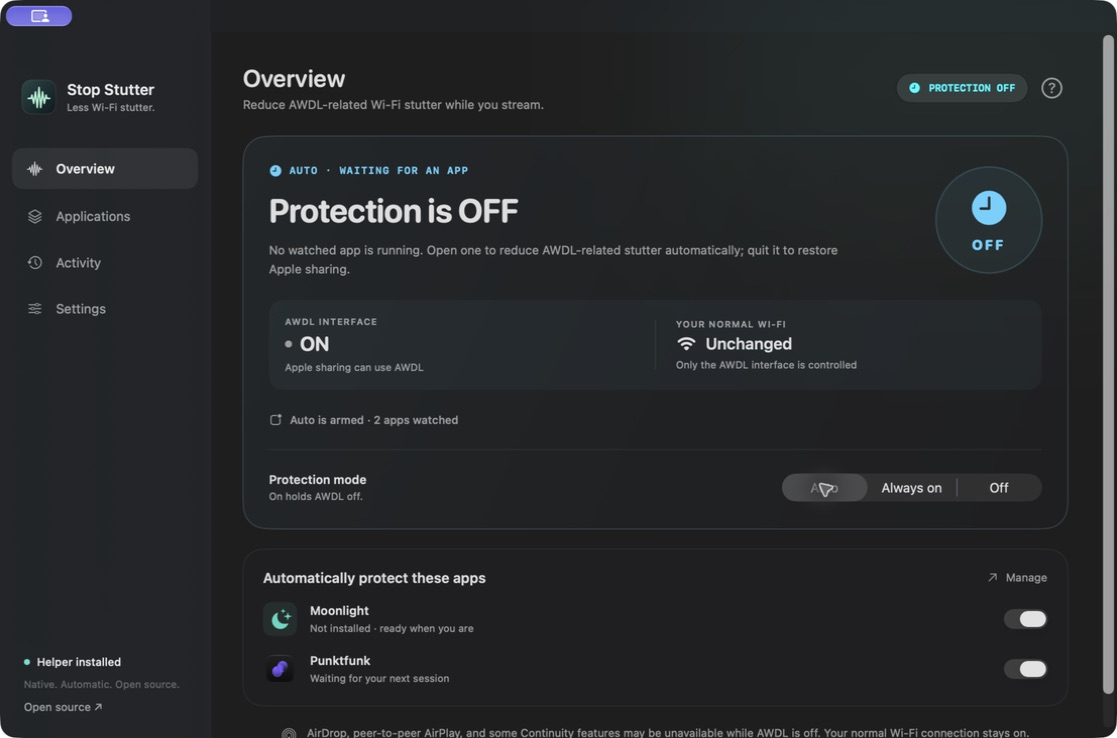
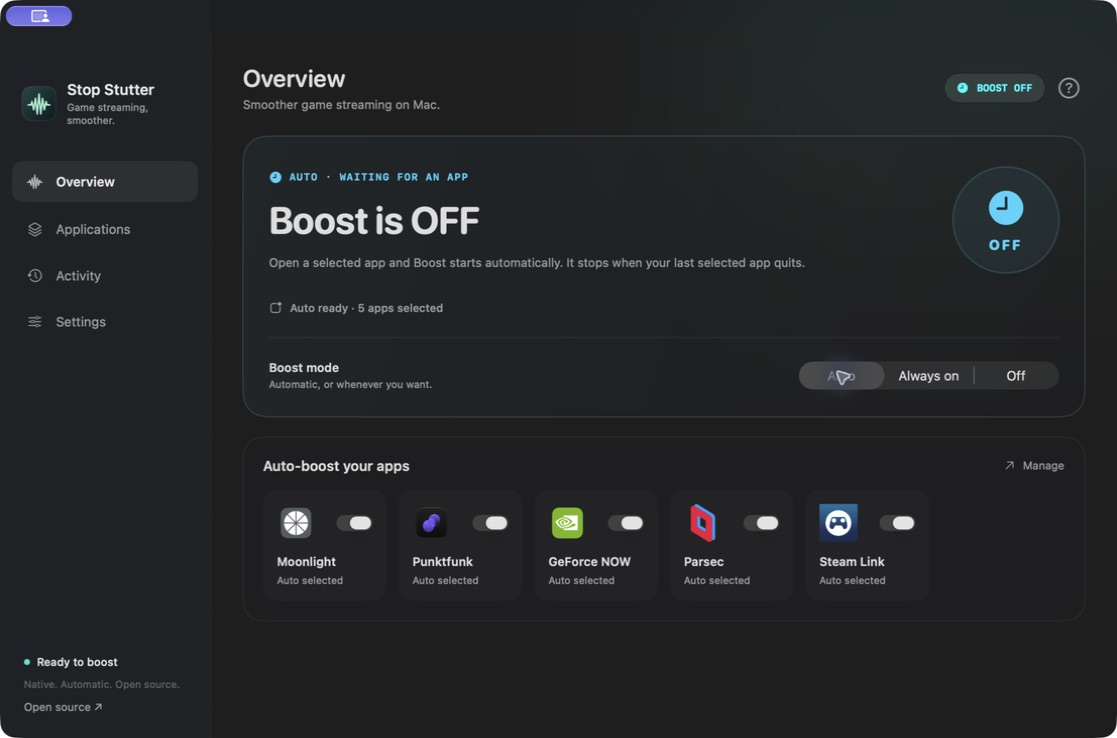
Explain the streaming boost and refresh release screenshots

diff --git a/README.md b/README.md
@@ -2,11 +2,11 @@
 
 # Stop Stutter
 
-### Less Moonlight stutter. Without babysitting your Mac.
+### Smoother game streaming on Mac.
 
-**Reduce AWDL-related Wi-Fi lag in Moonlight, Punktfunk, and other streaming apps.**
+**A native, automatic streaming boost for Moonlight, GeForce NOW, Punktfunk, Parsec, and Steam Link.**
 
-Automatically turn AWDL off while you play—and back on when you quit.
+Open your game. Boost kicks in. Quit when you’re done.
 
 [![macOS 14+](https://img.shields.io/badge/macOS-14%2B-24292e?logo=apple)](https://github.com/burakgon/stop-stutter/releases)
 [![SwiftUI](https://img.shields.io/badge/SwiftUI-native-F05138?logo=swift&logoColor=white)](https://developer.apple.com/xcode/swiftui/)
@@ -21,16 +21,28 @@ Automatically turn AWDL off while you play—and back on when you quit.
 
 **Good signal. Plenty of bandwidth. Video still hitching every few seconds?** Your Mac’s peer-to-peer Wi-Fi may be getting in the way of your stream. When AWDL is the cause, turning it off can reduce latency spikes, uneven frame delivery, and audio interruptions. The issue has been [reported by Moonlight users for years](https://github.com/moonlight-stream/moonlight-qt/issues/753).
 
-Stop Stutter makes that workaround automatic. **Open your streaming app → AWDL is held off. Quit the last watched app → AWDL comes back.** You choose the apps. Your normal Wi-Fi stays on.
+Stop Stutter makes that workaround effortless. **Open a selected app → Boost starts. Quit the last selected app → Boost ends.** No Terminal commands to repeat. No setting to remember after every game.
 
-| What you want | What Stop Stutter does |
+| Built for your session | What you get |
 | --- | --- |
-| Fewer AWDL-related hitches and audio interruptions | Holds the AWDL interface off during your session |
-| No more repeated Terminal commands | Reapplies the setting every second, even if macOS revives AWDL |
-| AirDrop back after playing | Restores AWDL when the last watched app quits |
-| Know what is happening | Shows **Protection ON / OFF** and the separate **AWDL OFF / ON** state |
+| **Launch and play** | Automatic Boost for the apps you choose |
+| **See it at a glance** | Clear **Boost ON / OFF**, with distinct Auto waiting and paused states |
+| **Make it yours** | Five ready-made app presets, official client icons, and a native picker for any other client |
+| **Understand the details** | A **?** button explains the mechanism, limits, and Apple sharing trade-off |
 
-> This targets **AWDL-related Wi-Fi stutter**, not every source of latency. Decoder, encoder, network congestion, Bluetooth, and other issues can still affect a stream. We do not claim a measured FPS or latency improvement.
+## Pick your streaming apps
+
+| App | Use case |
+| --- | --- |
+| **Moonlight** | Stream games from your own PC |
+| **GeForce NOW** | Cloud gaming on your Mac |
+| **Punktfunk** | Game streaming from your PC |
+| **Parsec** | Low-latency remote desktop and game streaming |
+| **Steam Link** | Stream your Steam games to your Mac |
+
+These presets identify the native clients automatically. Add other `.app` bundles from **Applications → Add App**. Existing selections stay yours; missing presets are available under **More apps to boost**.
+
+The benefit depends on whether AWDL causes your stutter. Preset support means automatic app detection, not a measured performance gain for each client. See the [validation record](docs/VALIDATION.md) for what has actually been tested.
 
 ## Why can AWDL cause lag?
 
@@ -38,10 +50,10 @@ Stop Stutter makes that workaround automatic. **Open your streaming app → AWDL
 
 **A live stream notices short delays.** Downloads can buffer and catch up. A game stream needs frames, audio, and inputs delivered consistently. Those brief interruptions can feel like stutter even when a speed test reports excellent bandwidth.
 
-**Stop Stutter removes this source of interference.** While protection is on, its helper disables `awdl0` every second. Your normal Wi-Fi remains on. In Auto mode it brings AWDL back after the final watched app quits, so Apple sharing can resume.
+**Stop Stutter removes this source of interference.** While boost is on, its helper disables `awdl0` every second. Your normal Wi-Fi remains on. In Auto mode it brings AWDL back after the final watched app quits, so Apple sharing can resume.
 
 ```text
-PROTECTION OFF                     PROTECTION ON
+BOOST OFF                          BOOST ON
 AWDL can share the Wi-Fi radio      AWDL is held off every second
          ↓                                  ↓
 AWDL-related delays can occur       This source of interference is reduced
@@ -51,7 +63,7 @@ AWDL-related delays can occur       This source of interference is reduced
                  AWDL comes back on
 ```
 
-**The trade-off:** AirDrop, peer-to-peer AirPlay, and some Continuity features may be unavailable while AWDL is off. Turn protection off whenever you need them. The **?** button in the app explains this with an illustrated walkthrough.
+**The trade-off:** AirDrop, peer-to-peer AirPlay, and some Continuity features may be unavailable while AWDL is off. Turn boost off whenever you need them. The **?** button in the app explains this with an illustrated walkthrough.
 
 <details>
 <summary>See the in-app explanation</summary>
@@ -62,14 +74,14 @@ AWDL-related delays can occur       This source of interference is reduced
 
 ## What you get
 
-- **Automatic protection.** Moonlight and Punktfunk are suggested out of the box. Add any `.app` with the native application picker.
-- **One-second enforcement.** The helper repeats `/sbin/ifconfig awdl0 down` every second while protection is active, because macOS can bring the interface back up.
-- **Manual control.** Choose **Always on** to hold AWDL off, **Off** to stop protection, or **Auto** to follow your selected apps.
-- **States you can read at a glance.** A green **Protection is ON** means AWDL is held off. Blue **OFF / Auto waiting** means the app is armed for the next session. Gray **OFF / Paused** means automation is disabled. Setup, transitions, and errors have their own labels.
-- **An explanation built in.** The **?** panel shows why AWDL can cause lag, how protection helps, and what happens to Apple sharing.
+- **Automatic Boost.** Moonlight, GeForce NOW, Punktfunk, Parsec, and Steam Link are included. Add any `.app` with the native application picker.
+- **One-second enforcement.** The helper repeats `/sbin/ifconfig awdl0 down` every second while boost is active, because macOS can bring the interface back up.
+- **Manual control.** Choose **Always on** to hold AWDL off, **Off** to stop boost, or **Auto** to follow your selected apps.
+- **States you can read at a glance.** Green **Boost is ON** means a verified active session. Blue **OFF / Auto waiting** is ready for your next app launch. Gray **OFF / Paused** means automation is disabled. Setup, transitions, and errors have their own labels.
+- **An explanation built in.** The **?** panel shows why AWDL can cause lag, how boost helps, and what happens to Apple sharing.
 - **Native Liquid Glass.** SwiftUI, real macOS 26+ glass controls, and native materials on macOS 14–15. Supports the system appearance and accessibility settings.
-- **A quiet menu bar companion.** Close the main window and protection keeps working. Optional launch at login.
-- **Clear notifications.** Quiet banners when protection starts, AWDL is restored, or an AWDL command fails. No notification sounds over your stream.
+- **A quiet menu bar companion.** Close the main window and boost keeps working. Optional launch at login.
+- **Clear notifications.** Quiet banners when Boost starts, ends, or needs attention. No notification sounds over your stream.
 - **Recovery built in.** Disconnect recovery, six-second leases, and a durable recovery marker help prevent AWDL from being left off after a crash.
 - **No accounts, analytics, ads, or dependencies.** App choices stay in local preferences. Activity history exists only in memory.
 
@@ -79,40 +91,42 @@ AWDL-related delays can occur       This source of interference is reduced
 2. Move **Stop Stutter.app** to **Applications**, then open it.
 3. Click **Enable Helper**. Approve Stop Stutter under **System Settings → General → Login Items & Extensions** when macOS asks. Administrator approval is required for the helper.
 4. Allow notifications if you want session updates.
-5. Choose **Auto**, then open Moonlight, Punktfunk, or another selected app.
+5. Choose **Auto**, then open Moonlight, GeForce NOW, or another selected app.
 
 Release builds are signed with Developer ID and notarized by Apple. The universal binary supports Apple Silicon and Intel. **macOS 14 Sonoma or later** is required; Liquid Glass requires **macOS 26 Tahoe or later**.
 
-### Choose when protection runs
+### Choose when boost runs
 
 | Mode | Behavior |
 | --- | --- |
 | **Auto** | Holds AWDL off while at least one enabled app is running. Restores it when the last one quits. |
 | **Always on** | Holds AWDL off until you change the mode or quit Stop Stutter. |
-| **Off** | Releases Stop Stutter’s control and pauses automatic protection. |
+| **Off** | Releases Stop Stutter’s control and pauses automatic boost. |
 
-Use **Applications → Add App** to select a client. Apps are matched by bundle identifier, so moving or renaming an app does not break its rule. Toggle a rule off to keep it in the list without triggering protection. Multiple selected clients can run at the same time.
+Use **Applications → Add App** to select a client. Apps are matched by bundle identifier, so moving or renaming an app does not break its rule. Toggle a rule off to keep it in the list without triggering boost. Multiple selected clients can run at the same time.
 
-**App lifetime, not stream detection:** protection starts when the client launches, including its menus, and stays on while it runs in the background. Closing its last window may not quit the client. Use **Quit** in that client to end its session.
+**App lifetime, not stream detection:** boost starts when the client launches, including its menus, and stays on while it runs in the background. Closing its last window may not quit the client. Use **Quit** in that client to end its session.
 
-**Auto is selected, but protection says OFF?** That is expected when none of your watched apps is running. Auto is a rule; the large status shows whether protection is actually active right now. A selected mode alone is never treated as proof that AWDL was disabled.
+Whole browsers and the Steam launcher are not presets: they often stay open outside a streaming session. For browser-based cloud gaming, use **Always on** during play or add your browser as a custom rule if you prefer that behavior.
+
+**Auto is selected, but boost says OFF?** That is expected when none of your watched apps is running. Auto is a rule; the large status shows whether boost is actually active right now. A selected mode alone is never treated as proof that AWDL was disabled.
 
 <details>
-<summary>Compare Auto waiting and paused protection</summary>
+<summary>Compare Auto waiting and paused boost</summary>
 
-**Auto waiting:** protection is off now, but a watched app will start it.
+**Auto waiting:** boost is off now, but a watched app will start it.
 
 ![Auto mode waiting for a watched app](docs/auto-waiting.jpg)
 
-**Paused:** protection is off, and app launches will not start it.
+**Paused:** boost is off, and app launches will not start it.
 
-![Protection paused with AWDL on](docs/protection-off.jpg)
+![Boost paused](docs/boost-off.jpg)
 
 </details>
 
 ### What happens to AirDrop?
 
-AirDrop, peer-to-peer AirPlay, and some Continuity features may be unavailable while AWDL is held off. Your regular Wi-Fi interface is not disabled. Stop Stutter restores AWDL when its protection ends; it does not change Bluetooth, Location Services, your router, or SIP.
+AirDrop, peer-to-peer AirPlay, and some Continuity features may be unavailable while AWDL is held off. Your regular Wi-Fi interface is not disabled. Stop Stutter restores AWDL when its boost ends; it does not change Bluetooth, Location Services, your router, or SIP.
 
 ## How it works
 
@@ -133,14 +147,14 @@ Selected apps launch / quit
 
 The helper uses Apple’s [`SMAppService`](https://developer.apple.com/documentation/servicemanagement/smappservice) rather than a passwordless sudo rule. The app runs as your normal user; the small helper runs with permission to change AWDL. Both ends validate the peer’s Apple code signature, exact identifier, and signing team using the [public XPC code-signing APIs](https://developer.apple.com/documentation/foundation/nsxpcconnection/setcodesigningrequirement(_:)).
 
-Only a boolean protection request crosses XPC. The helper accepts no command strings, custom interfaces, executable paths, or shell arguments. Read [the architecture and security notes](docs/ARCHITECTURE.md) for failure handling and limitations.
+Only a boolean boost request crosses XPC. The helper accepts no command strings, custom interfaces, executable paths, or shell arguments. Read [the architecture and security notes](docs/ARCHITECTURE.md) for failure handling and limitations.
 
 ### If something interrupts your session
 
 - **Normal quit or XPC disconnect:** the helper releases the app’s lease and restores AWDL when no other lease remains.
 - **Frozen app:** a lease expires six seconds after the last heartbeat. The next one-second tick attempts recovery.
 - **Helper crash:** launchd restarts the helper. A root-owned recovery marker tells it to restore AWDL before taking new work.
-- **Sleep or user switching:** the app releases protection. Continuous monotonic lease time also expires across sleep; active rules are evaluated again on wake.
+- **Sleep or user switching:** the app releases boost. Continuous monotonic lease time also expires across sleep; active rules are evaluated again on wake.
 - **Restore failure:** the marker stays in place, the helper retries, and the app shows the error. It does not report success from an exit code alone.
 
 The helper changes nothing while idle unless it owns a pending recovery. After taking control it restores AWDL to **up**, even if another tool had previously brought it down. Avoid running competing AWDL controllers. A missing interface, an OS failure, or removal of the helper/app before recovery completes can prevent automatic restoration; [manual recovery](#manual-recovery) is always available.
@@ -171,7 +185,7 @@ Set `UNIVERSAL=1` to build for both architectures. The build uses macOS APIs int
 ## Remove
 
 1. Open **Settings** in Stop Stutter and disable **Launch at login**, if enabled.
-2. Click **Remove Helper**. The app first releases its lease and verifies that recovery has finished. Removal is blocked if another signed app session still owns protection.
+2. Click **Remove Helper**. The app first releases its lease and verifies that recovery has finished. Removal is blocked if another signed app session still owns boost.
 3. Quit Stop Stutter and move it to the Trash.
 
 Do this before deleting the app bundle: the helper lives inside it. The app does not install sudoers rules or separate scripts. An empty, root-owned recovery directory can remain at `/private/var/db/io.github.burakgon.StopStutter`; it has no running component.
@@ -184,16 +198,16 @@ Quit Stop Stutter, then run:
 sudo /sbin/ifconfig awdl0 up
 ```
 
-Verify the `UP` flag with `/sbin/ifconfig awdl0`. If another app is still requesting protection, release that session first or it will turn AWDL off again.
+Verify the `UP` flag with `/sbin/ifconfig awdl0`. If another app is still requesting boost, release that session first or it will turn AWDL off again.
 
 ## Contributing
 
 Bug reports with macOS version, Mac model, client name, and clear reproduction steps are especially useful. Please distinguish observed AWDL behavior from measured streaming improvements. See [CONTRIBUTING.md](CONTRIBUTING.md) and [the manual test checklist](docs/TESTING.md).
 
-If this helps your stream, a star helps other Mac users find it. Share your results in an issue—especially if you can compare the same session with protection on and off.
+If this helps your stream, a star helps other Mac users find it. Share your results in an issue—especially if you can compare the same session with boost on and off.
 
 ## Credits & license
 
-Inspired by the Mac streaming community’s investigations, including the [Moonlight issue](https://github.com/moonlight-stream/moonlight-qt/issues/753) and [AWDL troubleshooting notes](https://gist.github.com/kouwei32/c101be682fc2e433e153ea131798caec). Stop Stutter is an independent project, not affiliated with Apple, Moonlight, or Punktfunk.
+Inspired by the Mac streaming community’s investigations, including the [Moonlight issue](https://github.com/moonlight-stream/moonlight-qt/issues/753) and [AWDL troubleshooting notes](https://gist.github.com/kouwei32/c101be682fc2e433e153ea131798caec). Stop Stutter is an independent project, not affiliated with Apple or any of the supported streaming services. Product names and client icons belong to their respective owners. See [client icon sources and notices](Resources/ClientIcons/NOTICE.md).
 
 [MIT](LICENSE) © 2026 Ali Burak Goncu.

diff --git a/docs/TESTING.md b/docs/TESTING.md
@@ -4,7 +4,7 @@
 
 `swift test` uses an in-memory interface driver and recovery journal. It never changes networking, invokes sudo, or registers a daemon.
 
-The suite covers repeated down commands, OS reactivation, multiple independent leases, immediate disconnect recovery, heartbeat renewal, expiry, sleep-length monotonic jumps, helper restart recovery, shutdown, missing interfaces, silent write failure, failed journal writes, failed restoration, failed marker cleanup, mode precedence, watched-app matching, removal/disable behavior, and persistence round trips.
+The suite covers repeated down commands, OS reactivation, multiple independent leases, immediate disconnect recovery, heartbeat renewal, expiry, sleep-length monotonic jumps, helper restart recovery, shutdown, missing interfaces, silent write failure, failed journal writes, failed restoration, failed marker cleanup, mode precedence, watched-app matching, removal/disable behavior, preset matching, preservation of existing app choices, and persistence round trips.
 
 ## Manual release checklist
 
@@ -15,20 +15,20 @@ Perform network-control tests on a Mac where temporarily disabling AWDL will not
 - [ ] Install a notarized app in Applications; enable its helper and approve it in System Settings.
 - [ ] Verify no repeated password prompts, missing helper errors, or signature failures.
 - [ ] Select Always on; confirm `IFF_UP` disappears from `/sbin/ifconfig awdl0`.
-- [ ] Verify active / Auto waiting / paused have distinct text, icons, and color; changing the mode alone must not claim successful protection.
+- [ ] Verify active / Auto waiting / paused have distinct text, icons, and color; changing the mode alone must not claim successful boost.
 - [ ] Open the ? explanation panel, inspect packet timing illustration, scroll to the trade-off and source links, and dismiss using Escape/Return.
 - [ ] Observe the one-second loop over several ticks; optionally bring AWDL up and confirm it is disabled again.
 - [ ] Select Off; verify `IFF_UP` returns and a restore event/banner appears.
 - [ ] Choose Auto; launch a selected client and verify AWDL goes down.
-- [ ] Keep two selected clients running; quit one and confirm protection remains. Quit the other and confirm restoration.
+- [ ] Keep two selected clients running; quit one and confirm boost remains. Quit the other and confirm restoration.
 - [ ] Add a custom app through the native picker; disable/remove its rule while it runs and verify reconciliation.
-- [ ] Leave a client window closed but its process running; verify protection correctly remains active.
-- [ ] Quit Stop Stutter during protection; verify AWDL returns.
+- [ ] Leave a client window closed but its process running; verify boost correctly remains active.
+- [ ] Quit Stop Stutter during boost; verify AWDL returns.
 - [ ] Force quit Stop Stutter; verify disconnect/expiry recovery. Restart it and confirm rules resume.
-- [ ] Freeze the app during protection; verify lease expiry and recovery. Resume and confirm control resumes.
-- [ ] Kill the helper during protection on a test system; verify restart and recovery marker handling.
+- [ ] Freeze the app during boost; verify lease expiry and recovery. Resume and confirm control resumes.
+- [ ] Kill the helper during boost on a test system; verify restart and recovery marker handling.
 - [ ] Test sleep/wake, switching users, notification denial, and helper permission revocation.
 - [ ] Remove the helper in Settings; verify launchd registration is removed and AWDL is up.
 - [ ] Check the ZIP on a second Mac. Test Intel and macOS 14/15 separately from Apple Silicon and 26+.
 
-Record what actually ran in the release notes. Do not infer a streaming improvement from network-interface state alone; compare the same stream with protection off/on to measure that.
+Record what actually ran in the release notes. Do not infer a streaming improvement from network-interface state alone; compare the same stream with boost off/on to measure that.

diff --git a/docs/VALIDATION.md b/docs/VALIDATION.md
@@ -1,17 +1,21 @@
 # 0.1.0 validation record
 
-Development host: Apple Silicon Mac, macOS 27.0 developer beta, Xcode 27.0. Deployment target: macOS 14.0. Built and inspected both arm64 and x86_64 slices. The linked SDK version is explicitly stamped by the build script to enable the system's modern Liquid Glass behavior.
+Development host: Apple Silicon Mac, macOS 27.0 developer beta, Xcode 27.0. Deployment target: macOS 14.0. Built and inspected both arm64 and x86_64 slices. With Xcode 27, the linked SDK version is explicitly stamped by the build script to enable the system's modern Liquid Glass behavior.
+
+GitHub Actions also passed all 28 tests and the universal build on macOS 26 with Xcode 26.5. Both slices report a macOS 14.0 minimum and the correct 26.5 linked SDK.
 
 ## Checks completed
 
-- 26 automated tests for control policy, lease ownership, error recovery, persistence, and truthful UI state classification.
+- 28 automated tests for control policy, lease ownership, error recovery, persistence, and truthful UI state classification.
+- Streaming presets: verified Parsec’s identifier from its official macOS package, Steam Link’s from Apple’s app metadata, and GeForce NOW’s from its official macOS disk image. Matching and preservation of disabled/custom rules have automated coverage.
+- Added GeForce NOW, Parsec, and Steam Link through the native suggested-app controls; all five selected rules and their official icons are visible together on the overview. The latest icon bundle passed signing, notarization, and CI again.
 - Native application picker: selected TextEdit, verified its persisted rule, then removed the temporary rule.
 - Native AWDL explanation sheet: opened from the ? button, inspected both ends of its scrollable content, verified source links are present, and dismissed with Escape.
-- Revised UI states: observed and captured active green Protection ON / AWDL OFF, blue Auto waiting / Protection OFF, and neutral paused Protection OFF / AWDL ON against the live helper.
+- Revised UI states: observed and captured active green Boost ON, blue Auto waiting / Boost OFF, and neutral paused Boost OFF against the live helper.
 - Approved SMAppService helper installed and running under launchd.
-- Actual interface checks using `/sbin/ifconfig awdl0`: the `UP` flag disappears during protection and returns after release.
-- Manual protection through the UI: on and off matched the real interface state.
-- Punktfunk launch triggered automatic protection; quitting it restored AWDL.
+- Actual interface checks using `/sbin/ifconfig awdl0`: the `UP` flag disappears during boost and returns after release.
+- Manual boost through the UI: on and off matched the real interface state.
+- Punktfunk launch triggered automatic boost; quitting it restored AWDL.
 - A signed integration probe verified two independent leases, keeping AWDL down when only one ends, restoration when the last ends, immediate disconnect recovery, and recovery after a heartbeat stops.
 - A probe with the same bundle identifier but only an ad-hoc signature was rejected by the helper.
 - In-app helper removal completed; launchd no longer listed the service and AWDL remained up.

diff --git a/docs/ARCHITECTURE.md b/docs/ARCHITECTURE.md
@@ -22,9 +22,9 @@ Before the first down command, the helper creates and syncs a marker in a root-o
 
 The marker means “this helper owes an AWDL up.” Recovery clears it only after `ifconfig up` succeeds and `IFF_UP` is verified. Recovery failures retain ownership and retry. A helper restart sees the marker and attempts restoration before handling new connections. A SIGTERM handler attempts restoration on orderly service removal; launchd restarts nonzero exits. A forced kill is recovered by the next launch, subject to normal OS scheduling and service approval.
 
-The app renews its connection's six-second lease every two seconds. The helper's timer expires leases using continuous monotonic time, which advances over sleep and ignores wall-clock changes. Only the last lease ending triggers restoration. Control returns to AWDL up after protection, regardless of its state before protection. With no lease or recovery marker, the daemon never changes the interface.
+The app renews its connection's six-second lease every two seconds. The helper's timer expires leases using continuous monotonic time, which advances over sleep and ignores wall-clock changes. Only the last lease ending triggers restoration. Control returns to AWDL up after Boost, regardless of its state before Boost. With no lease or recovery marker, the daemon never changes the interface.
 
-The UI treats a session as protected only after a successful response that says the helper owns control, a lease exists, the interface is down, and no error is present. RPC timeout/error paths do not claim protection. RPC completion is guarded against duplicate replies and timeouts. A heartbeat failure lets the lease expire; the client retries on its next poll.
+The UI treats a Boost as active only after a successful response that says the helper owns control, a lease exists, the interface is down, and no error is present. RPC timeout/error paths do not claim active Boost. RPC completion is guarded against duplicate replies and timeouts. A heartbeat failure lets the lease expire; the client retries on its next poll.
 
 ## Limits
 

diff --git a/CHANGELOG.md b/CHANGELOG.md
@@ -5,8 +5,10 @@
 First public preview.
 
 - Native SwiftUI app with Liquid Glass controls on macOS 26+ and a menu bar companion.
-- Automatic AWDL suppression for user-selected apps, including Moonlight and Punktfunk suggestions.
-- Manual Auto / Always on / Off protection modes, explicit protection and AWDL status, and distinct active, waiting, paused, setup, transition, and error states.
+- Automatic AWDL suppression for user-selected apps, with presets for Moonlight, GeForce NOW, Punktfunk, Parsec, and Steam Link.
+- Auto / Always on / Off Boost modes, a benefit-led main screen, and distinct active, waiting, paused, setup, transition, and error states.
+- All selected apps appear on the overview, with official client icons and individual Auto toggles.
+- Optional suggested apps preserve existing user choices.
 - Illustrated in-app explanation of AWDL-related latency, one-second enforcement, and the Apple sharing trade-off.
 - Privileged helper with one-second enforcement, authenticated XPC, expiring leases, and durable recovery.
 - Quiet notifications, a session activity feed, optional launch at login, and in-app helper removal.

diff --git a/docs/RELEASING.md b/docs/RELEASING.md
@@ -19,6 +19,6 @@ Do not publish an unnotarized helper build as a supported end-user download. Ad-
 
 ## Updating an installed helper
 
-For the initial release, updates are manual. In the installed version, turn protection off, remove the helper in Settings, and quit before replacing the app. Open the new version and enable its helper again. This follows Apple's requirement to re-register after the daemon executable or plist changes. Do not replace a live bundle during enforcement.
+For the initial release, updates are manual. In the installed version, turn boost off, remove the helper in Settings, and quit before replacing the app. Open the new version and enable its helper again. This follows Apple's requirement to re-register after the daemon executable or plist changes. Do not replace a live bundle during enforcement.
 
 CI intentionally has no signing credentials. A maintainer performs signing and notarization on a trusted Mac. Contributions never run privileged network commands in CI.
